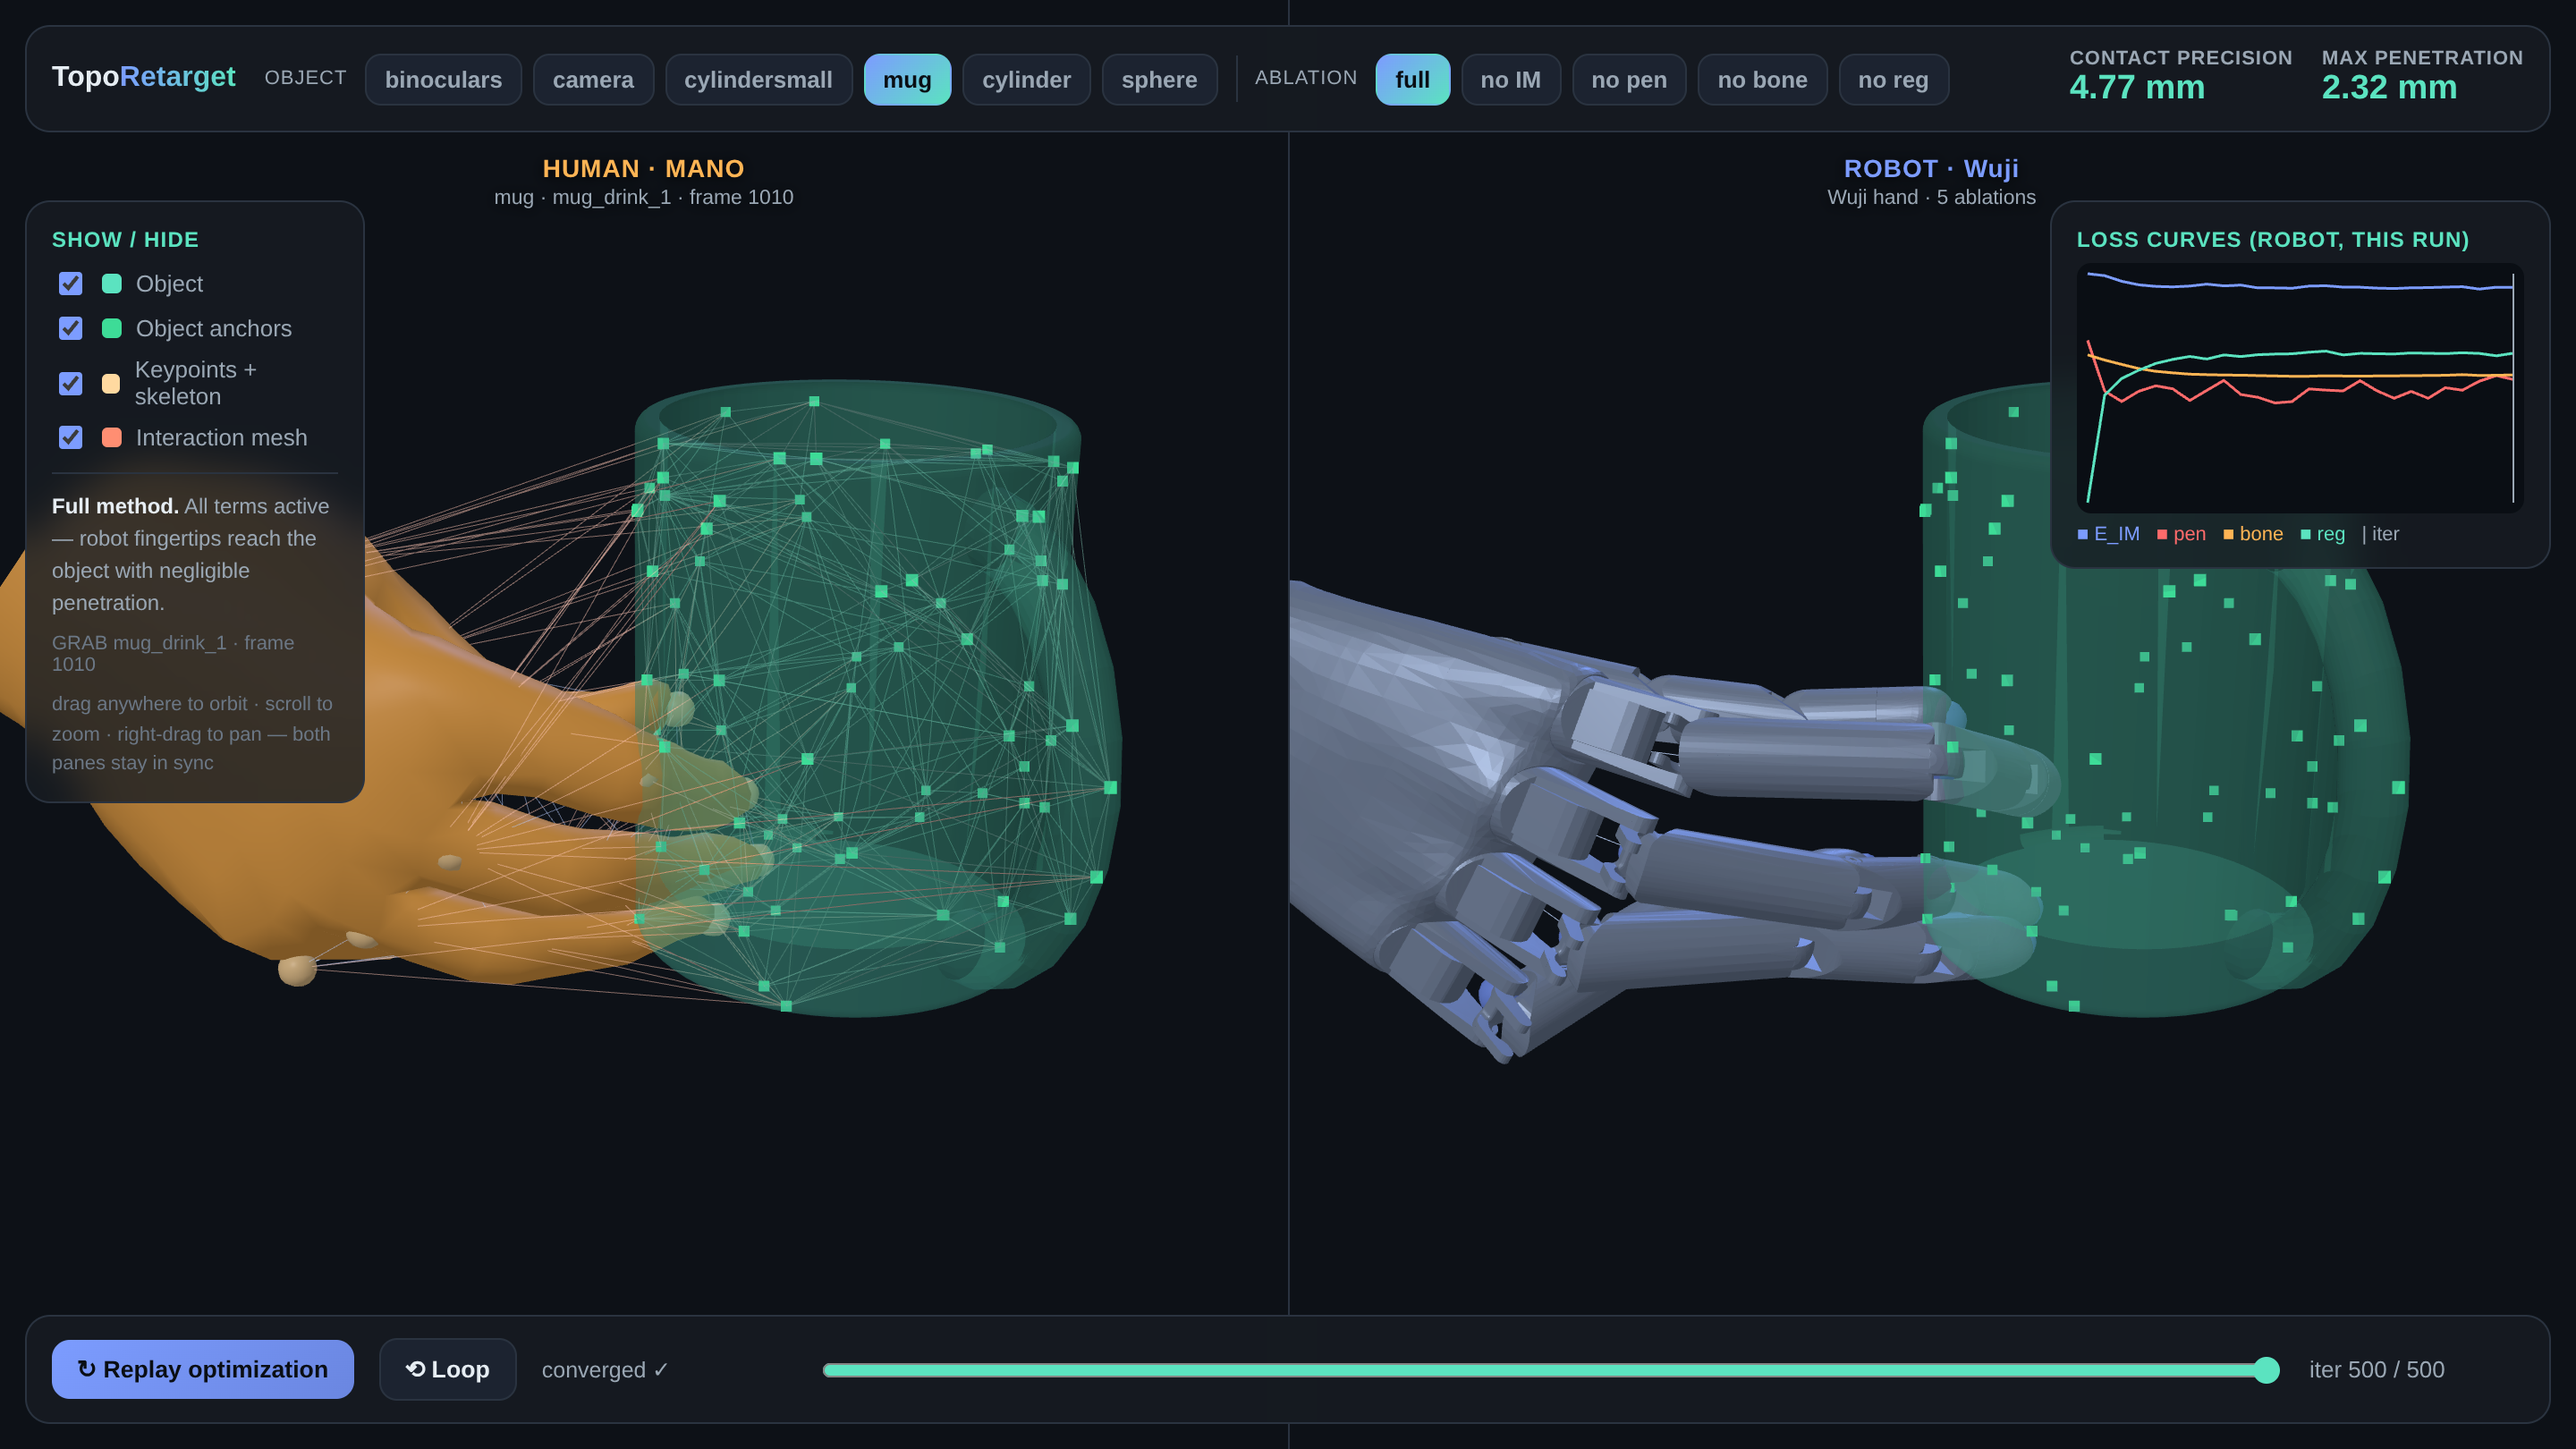
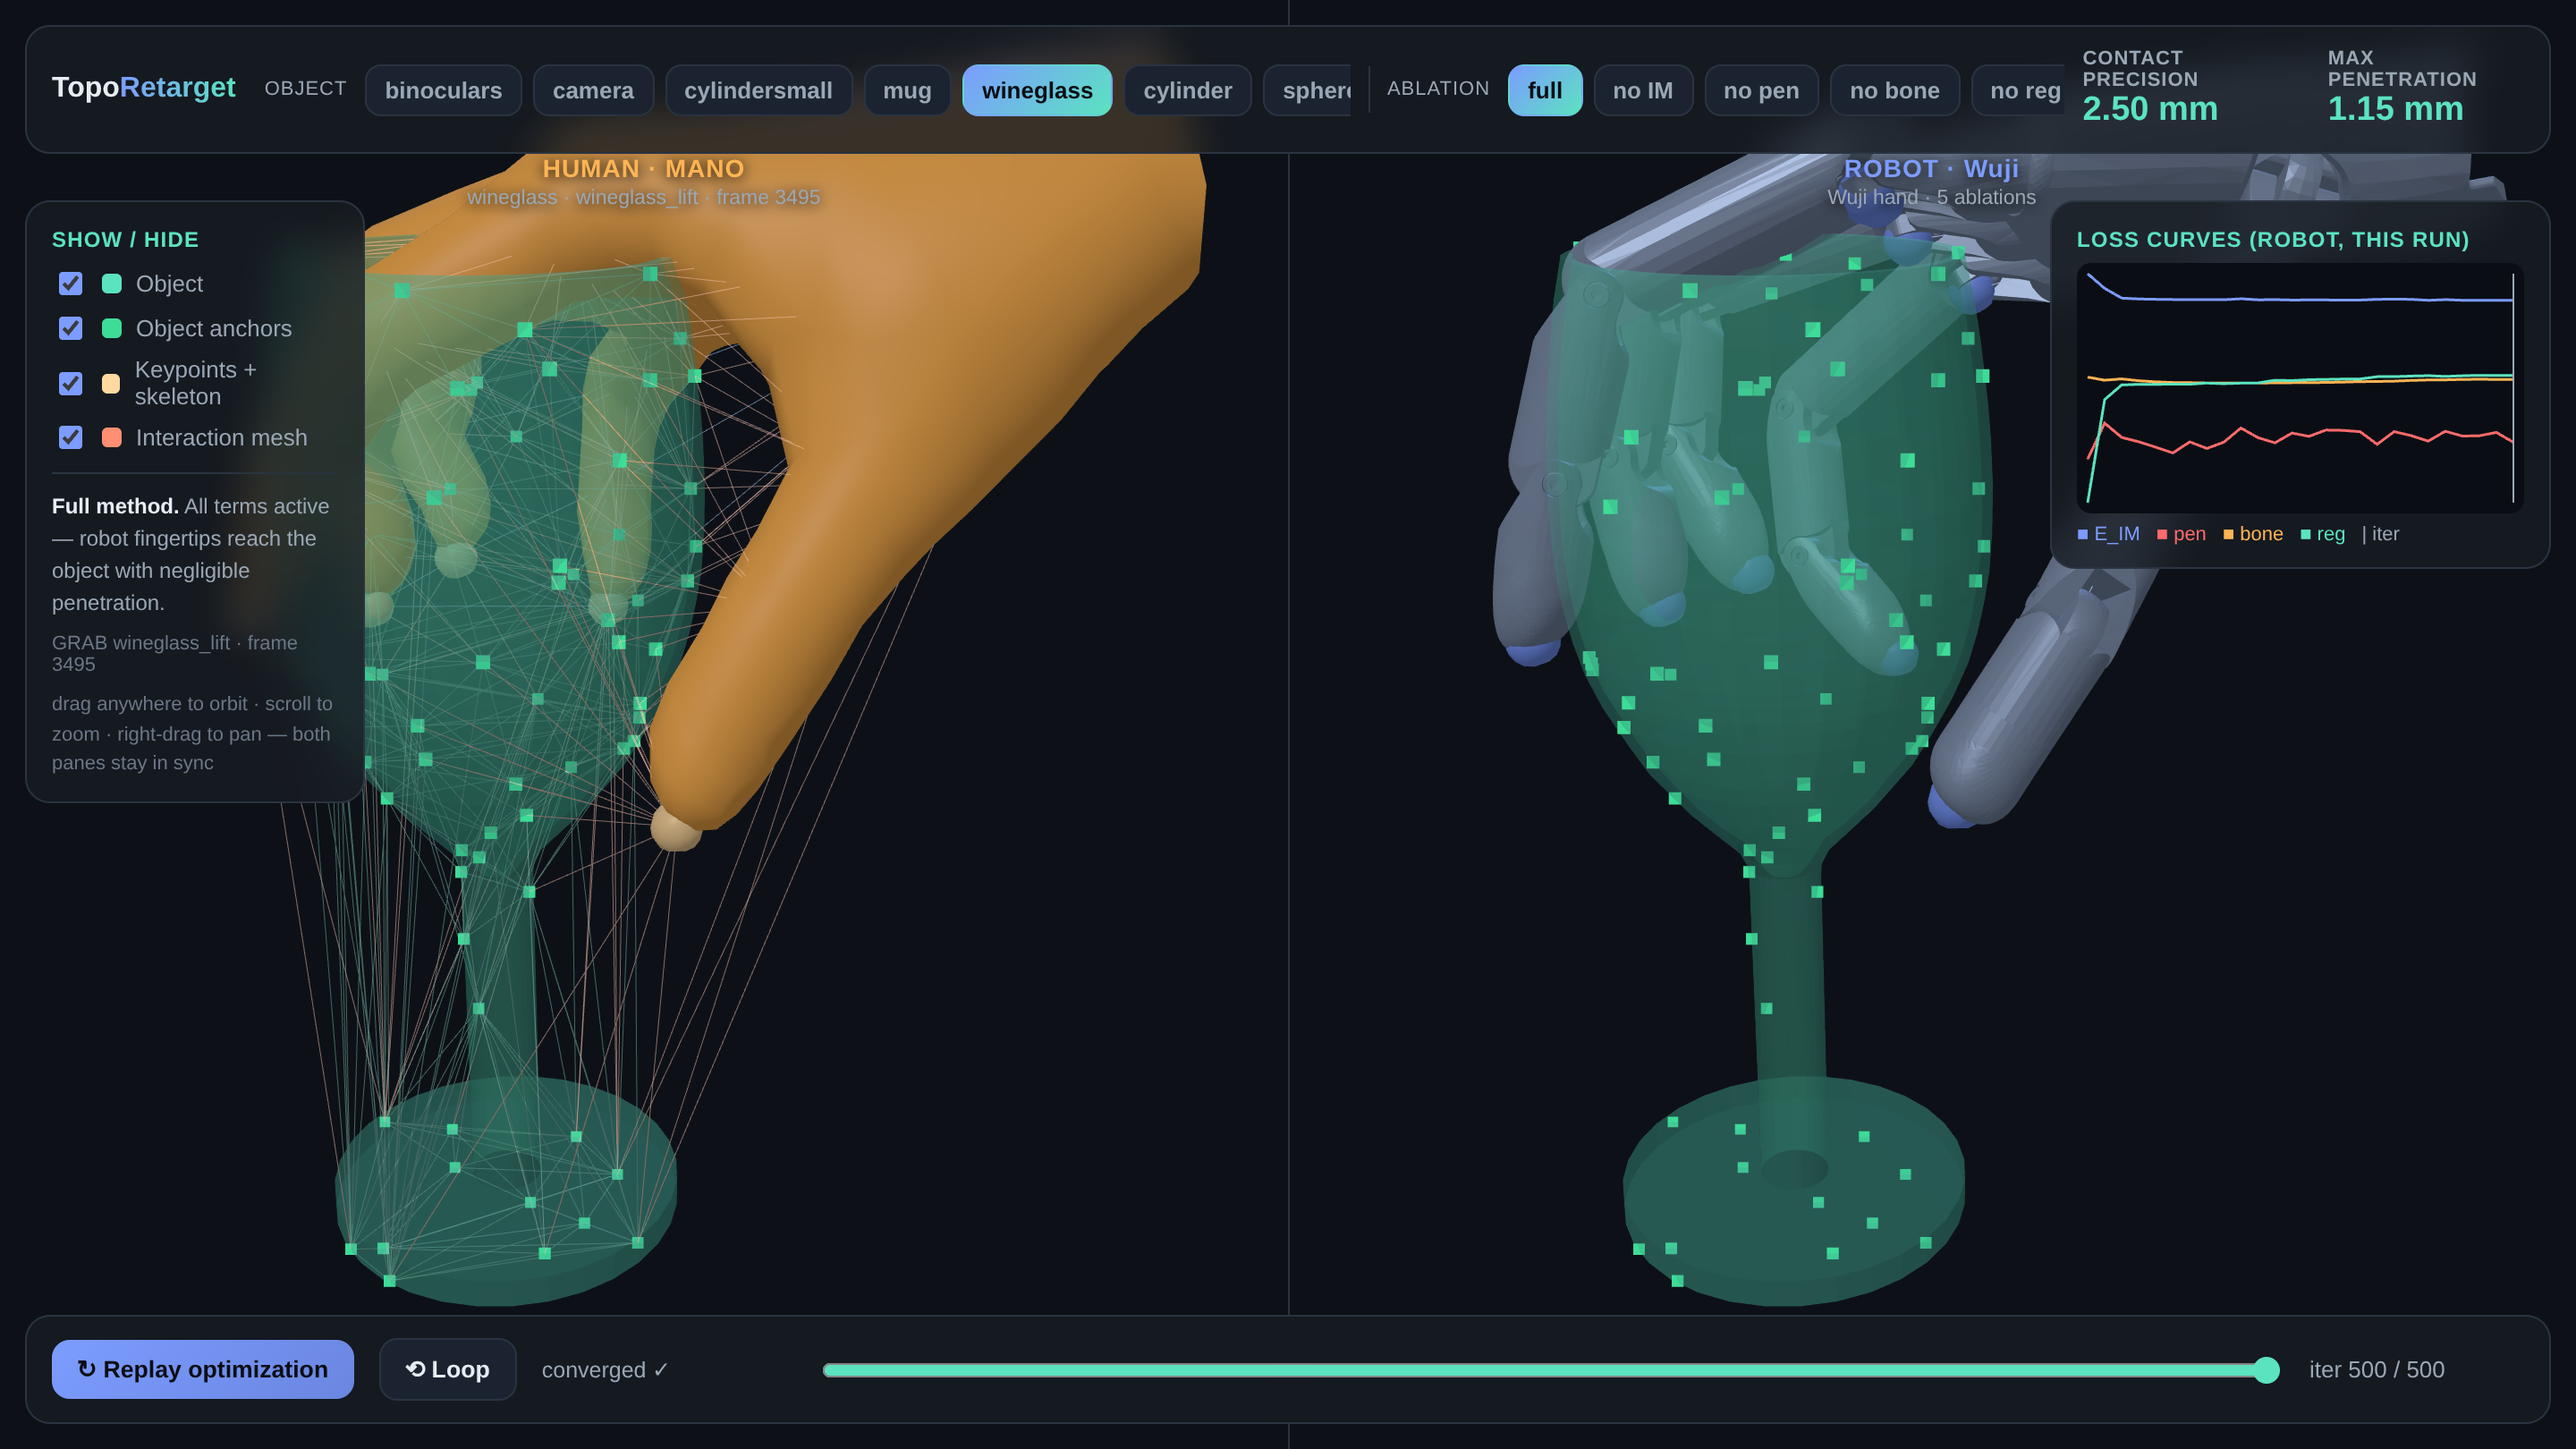
Showcase the wine glass instead of the mug
The wine glass reads far better as a figure -- the robot hand visibly cups the
bowl with the thumb wrapped round the far side -- and it is the repository's
best result: 2.50 mm contact precision at 1.15 mm penetration (GRAB
wineglass_lift, frame 3495, picked as the tightest grasp in the sequence).

The comparison figure drops to two large panels rather than three cramped ones.
On a thin-walled glass there is nothing to sink into, so `without E_pen` was
indistinguishable from the full method (2.48 mm vs 2.50 mm) and the panel said
nothing; `without E_IM` says a great deal (2.50 mm -> 37.79 mm, the fingers
splay instead of conforming).  The penetration story keeps its numbers in the
README text, where the mug shows it properly.

capture_media.py gains --ablations so the comparison panels can be chosen per
object, and the viewer's header strip no longer wraps: with several payloads
present it grew to two rows and covered the top of the scene.  It scrolls
horizontally instead.

diff --git a/viewer/index.html b/viewer/index.html
@@ -14,7 +14,11 @@ canvas{display:block}
 #top{top:14px;left:14px;right:14px;display:flex;gap:10px;align-items:center;flex-wrap:nowrap;overflow-x:auto;overflow-y:hidden}
 #top h1{font-size:16px;margin:0 6px 0 0}
 #top h1 .g{background:linear-gradient(90deg,var(--acc),var(--acc2));-webkit-background-clip:text;background-clip:text;color:transparent}
-.seg{display:flex;gap:6px;flex-wrap:wrap}
+/* never wrap: a second header row would cover the scene once a few payloads
+   are present.  The strip scrolls horizontally instead. */
+.seg{display:flex;gap:6px;flex-wrap:nowrap;overflow-x:auto;scrollbar-width:none}
+.seg::-webkit-scrollbar{display:none}
+.seg button{white-space:nowrap;flex:0 0 auto}
 .seg button{background:#1c2330;color:var(--mut);border:1px solid var(--line);border-radius:9px;padding:6px 10px;font-size:13px;cursor:pointer;font-weight:600}
 .seg button.sel{background:linear-gradient(135deg,var(--acc),var(--acc2));color:#0a0e14;border-color:transparent}
 .sep{width:1px;height:26px;background:var(--line)}

diff --git a/scripts/capture_media.py b/scripts/capture_media.py
@@ -68,6 +68,9 @@ def main():
     ap.add_argument("--height", type=int, default=810)
     ap.add_argument("--gif-width", type=int, default=900)
     ap.add_argument("--fps", type=int, default=11)
+    ap.add_argument("--ablations", default="full,no_IM",
+                    help="comma list of runs for the comparison figure; pick ones "
+                         "that actually differ on the chosen object")
     ap.add_argument("--hold-frames", type=int, default=9,
                     help="repeats of the converged frame before the loop restarts")
     args = ap.parse_args()
@@ -106,7 +109,8 @@ def main():
         # added nothing the caption does not say.
         page.evaluate("() => { document.getElementById('loss').style.display='none'; }")
         stills, scores = {}, {}
-        for name in ["full", "no_IM", "no_pen"]:
+        wanted = [a.strip() for a in args.ablations.split(",") if a.strip()]
+        for name in wanted:
             # the viewer prints ablation names with spaces, not underscores
             pick(page, "#abl button", name.replace("_", " "))
             set_frame(page, n_frames(page))
@@ -138,8 +142,10 @@ def main():
     # side by side.  Stacking whole screenshots produced a figure three screens
     # tall, which is unreadable inline in a README.
     from PIL import Image, ImageDraw
-    order = [("full", "full method"), ("no_IM", "without E_IM"),
-             ("no_pen", "without E_pen")]
+    captions = {"full": "full method", "no_IM": "without E_IM",
+                "no_pen": "without E_pen", "no_bone": "without E_bone",
+                "no_reg": "without E_reg"}
+    order = [(k, captions.get(k, k)) for k in wanted]
     # Both metrics, because contact precision alone misleads: dropping E_pen
     # *improves* it while the hand sinks into the object.
     order = [(k, cap, "contact %s   ·   penetration %s" % tuple(scores.get(k, ("?", "?"))))

diff --git a/README.md b/README.md
@@ -17,9 +17,10 @@ with an interactive 3-D viewer for watching the optimisation actually happen.
 
 <img src="docs/media/hero.gif" width="880" alt="Human hand on the left, Wuji robot hand on the right, converging onto the same grasp">
 
-<sub>A real GRAB grasp, retargeted. Left: the human demonstration. Right: the Wuji
-Hand, solved from its initial pose to reproduce the same hand-object
-relationship. In the viewer you drag to orbit — both panes share one camera.</sub>
+<sub>A real GRAB grasp of a wine glass, retargeted. Left: the human
+demonstration. Right: the Wuji Hand, solved from its initial pose until it holds
+the glass the same way — <b>2.50 mm</b> contact precision, <b>1.15 mm</b>
+penetration. In the viewer you drag to orbit; both panes share one camera.</sub>
 
 </div>
 
@@ -37,10 +38,11 @@ geometry* of that graph — who touches what, from which direction, at what
 distance — while staying out of the object.
 
 <div align="center">
-<img src="docs/media/ablation.png" width="880" alt="The same grasp solved with the full method, without the interaction term, and without the penetration term">
-<br><sub>The same grasp, three ways. Drop <code>E_IM</code> and the hand never
-commits to the object; drop <code>E_pen</code> and it grips <em>better</em> —
-by sinking 6 mm into the mug. Every term is switchable in the viewer, live.</sub>
+<img src="docs/media/ablation.png" width="880" alt="The same grasp with the full method and with the interaction term removed">
+<br><sub>The interaction term is what makes the hand commit to the object: drop
+<code>E_IM</code> and contact precision goes from <b>2.50 mm</b> to
+<b>37.79 mm</b> — the fingers splay instead of conforming. Every term is
+switchable in the viewer, live.</sub>
 </div>
 
 ## Try it
@@ -75,7 +77,7 @@ python scripts/export_viewer.py --source contactpose:mug \
 | **Interaction mesh overlay** | the Delaunay edges, colour-coded hand-hand / object-object / **cross** — the cross edges are the ones carrying the interaction |
 
 <div align="center">
-<img src="docs/media/interaction-mesh.png" width="880" alt="The interaction mesh overlaid on both hands, with loss curves and live metrics">
+<img src="docs/media/interaction-mesh.png" width="880" alt="The interaction mesh overlaid on the human and robot hands, with loss curves and live metrics">
 <br><sub>The interaction mesh switched on: the graph whose local relative
 geometry the optimisation is trying to preserve.</sub>
 </div>
@@ -99,6 +101,11 @@ Base orientation uses the continuous 6-D rotation representation. Penetration is
 measured on **sampled link surfaces**, not on keypoints — penalising only
 keypoints lets the finger geometry sink into the object while the score looks
 clean (0.80 mm reported where the link surfaces were 9.00 mm inside).
+
+`E_pen` earns its place on solid objects rather than thin-walled ones: on the
+wine glass above there is nothing to sink into, but on a GRAB mug, removing it
+*improves* contact precision (4.77 mm → 1.82 mm) by pushing the fingers 6.04 mm
+into the object. Switch objects in the viewer to see it.
 
 Two explainers walk through the maths with animations:
 **[the method](https://yijie21.github.io/toporetarget_reimp/toporetarget_explained.html)** ·
